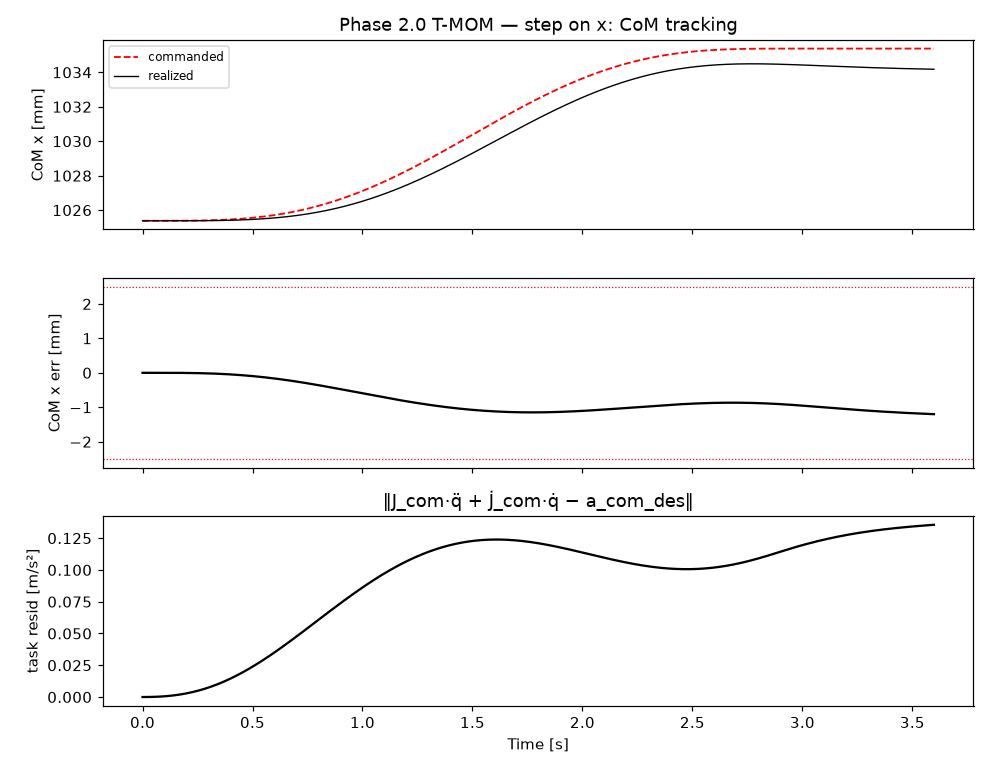
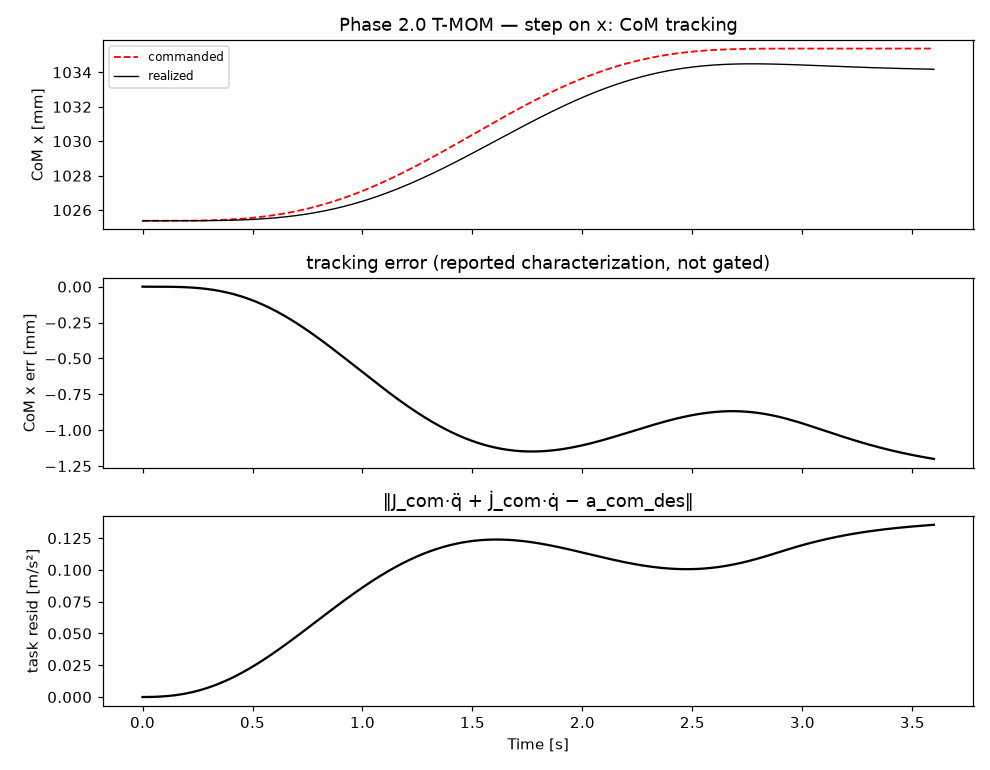
test/docs: align Phase 2.0 to intrinsic gate (formulation + monotonicity)
Per review: gate on task-intrinsic properties only (static-hold exact, Ȧ_G·q̇
FD assembly, mass-factor monotonicity), with per-step CoM tracking + accel
residual REPORTED as characterization, not pass/fail. Tests 2 & 4 keep a
generous divergence/sign guard; Variant B is a relative coexistence check vs
Variant A. Report adds the authority-characterization sweep and the two
Phase-2.1 carry-forwards (ss_alpha_mom not frozen; the ratio/architecture
question). No crawlbot/ change.

Claude-Session: https://claude.ai/code/session_016wgdFwiBCFPDPD3MwRG8Xe

diff --git a/tests/test_reworked_qp.py b/tests/test_reworked_qp.py
@@ -559,33 +559,39 @@ class TestT10DSPassivity:
 
 TMOM_OUTPUT_DIR = 'results/phase2_0_tmom'
 
-# Tolerances (from first principles + the alpha_wrench/r_com diagnosis;
-# achieved errors are printed by every test). Tests run at the SHIPPING weight
-# ss_alpha_mom=500 (no reweighting) with alpha_wrench=1e-2 (the only harness
-# correction: with no NMPC lambda_ref the default 1e2 penalises the contact
-# force that is the sole means of CoM acceleration through the stance weld —
-# documented in scripts/test_qp_tracking.py:147).
-#  HOLD    : exact rest + ref=current + zero gravity ⇒ equilibrium qdd=tau=0 and
-#            the task row a_com_des=0 is reproduced exactly. Any motion/residual
-#            is spurious (wrong PD sign / state-dependent reference).
-#  TRACK   : closed-loop (PD+ff) tracking of a MODERATE jerk-limited reference
-#            (peak demand within the linear task's null-space authority at the
-#            shipping weight). 2.5 mm catches every gross formulation error
-#            (sign→divergence, mass-factor→metres or ~0, missing J̇→drift, all
-#            ≫cm) while absorbing PD lag + Euler error at dt=2 ms.
-#  JDOT    : independent finite-difference validation of J̇_com·q̇ (Ȧ_G·q̇) — the
-#            decisive "task row uses Ȧ_G·q̇, not just A_G" check, weight-free.
-#  MASS    : realized/commanded CoM-accel ratio vs task authority must converge
-#            monotonically toward unity (correct CoM-Jacobian = A_G/m form) and
-#            never sit at a fixed m≈71 or 1/m offset (a mass-scalar bug).
+# Phase-2.0 gate (per Idriss's review decision): gate on TASK-INTRINSIC
+# properties only — (1) formulation correctness and (2) authority MONOTONICITY —
+# NOT on an absolute realization threshold. Instantaneous CoM-accel authority at
+# the shipping weight in this isolated held-torso / single-contact / EE-off setup
+# is expected stack-priority behaviour; its representative value is only
+# measurable under swing (Phase 2.1). So mm-tracking and accel-residual% are
+# REPORTED as characterization (the ss_alpha_mom sweep feeds the 2.1 weight
+# decision); tests 2 & 4 keep only a generous DIVERGENCE/sign guard.
+#
+# Tests run at the SHIPPING weight ss_alpha_mom=500 with alpha_wrench=1e-2 (the
+# only harness correction: with no NMPC lambda_ref the default 1e2 penalises the
+# contact force that is the sole means of CoM acceleration through the stance
+# weld — documented in scripts/test_qp_tracking.py:147).
+#  HOLD  (gate, formulation): exact rest + ref=current + zero gravity ⇒
+#         equilibrium qdd=tau=0 and the task row a_com_des=0 is reproduced
+#         exactly. Any motion/residual ⇒ wrong PD sign / state-dependent ref.
+#  JDOT  (gate, formulation): finite-difference validation of J̇_com·q̇ (Ȧ_G·q̇) —
+#         decisive "task row uses Ȧ_G·q̇, not just A_G" check, weight-free.
+#  MASS  (gate, monotonicity): realized/commanded CoM-accel ratio must rise
+#         MONOTONICALLY with task authority and tend toward unity (correct
+#         CoM-Jacobian = A_G/m form), never a fixed m≈71 or 1/m offset.
+#  DIVERGE (sign/divergence guard, NOT a fidelity gate): a wrong-sign or
+#         mass-factor formulation bug diverges the CoM ≫ cm; this bounds it well
+#         above the achieved ~1.5 mm characterization without gating fidelity.
 TOL_HOLD_QDD = 1e-2
 TOL_HOLD_DRIFT = 2e-4
 TOL_HOLD_ACCEL = 1e-6
-TOL_TRACK = 2.5e-3
 TOL_JDOT_REL = 1e-3
+TOL_DIVERGE = 5e-2                   # 50 mm — sign/divergence guard only
 MASS_SWEEP = (5e2, 5e3, 3e4)        # ss_alpha_mom authority sweep
 TOL_MASS_TOP_LO, TOL_MASS_TOP_HI = 0.60, 1.40   # ratio at the top weight
 TOL_MASS_ANY_LO, TOL_MASS_ANY_HI = 0.05, 2.00   # excludes 71x and 1/71x
+TOL_VARIANTB_FACTOR = 1.5           # Variant B ≤ this × Variant A (coexistence)
 
 # Moderate per-axis references (peak demand within shipping-weight authority).
 _STEP_AMP, _STEP_T = 0.010, 3.0     # 10 mm jerk-limited septic step
@@ -675,8 +681,7 @@ def _plot_tmom_tracking(tlog, rcmd, rreal, resid, axis, profile, out_dir):
     axes[0].set_title(f'Phase 2.0 T-MOM — {profile} on {ax_name}: CoM tracking')
     axes[1].plot(tlog, (rreal[:, axis]-rcmd[:, axis])*1000, 'k')
     axes[1].set_ylabel(f'CoM {ax_name} err [mm]')
-    axes[1].axhline(TOL_TRACK*1000, color='r', ls=':', lw=0.8)
-    axes[1].axhline(-TOL_TRACK*1000, color='r', ls=':', lw=0.8)
+    axes[1].set_title('tracking error (reported characterization, not gated)')
     axes[2].plot(tlog, resid, 'k')
     axes[2].set_ylabel('task resid [m/s²]'); axes[2].set_xlabel('Time [s]')
     axes[2].set_title('‖J_com·q̈ + J̇_com·q̇ − a_com_des‖')
@@ -803,11 +808,16 @@ class TestPhase20TMOM:
                                         out['resid'], axis, profile,
                                         TMOM_OUTPUT_DIR)
                 worst_track = max(worst_track, out['peak_track'])
-                assert out['peak_track'] < TOL_TRACK, (
-                    f"{profile}/{'xyz'[axis]}: peak CoM track "
-                    f"{out['peak_track']*1000:.3f} mm >= {TOL_TRACK*1000:.1f} mm")
+                # NOT a fidelity gate: tracking is reported characterization
+                # (memo §4 Phase-2.0 gate = formulation + authority monotonicity).
+                # Only guard against divergence / wrong-sign formulation bugs.
+                assert out['peak_track'] < TOL_DIVERGE, (
+                    f"{profile}/{'xyz'[axis]}: CoM diverged "
+                    f"{out['peak_track']*1000:.1f} mm >= {TOL_DIVERGE*1000:.0f} mm "
+                    f"(wrong-sign / mass-factor formulation bug)")
         print(f"[T-MOM/2 SUMMARY] worst CoM track={worst_track*1000:.4f} mm "
-              f"(tol {TOL_TRACK*1000:.1f} mm)")
+              f"(reported; gate = J̇ assembly above + divergence guard "
+              f"{TOL_DIVERGE*1000:.0f} mm)")
 
     # -- Test 3: mass-scalar sanity (authority sweep) -------------------
     def test_mass_scalar_sanity(self, robot, dock_state):
@@ -841,23 +851,34 @@ class TestPhase20TMOM:
         assert all(TOL_MASS_ANY_LO < r < TOL_MASS_ANY_HI for r in ratios), (
             f"mass-scalar: a ratio left ({TOL_MASS_ANY_LO},{TOL_MASS_ANY_HI}) — "
             f"fixed m≈71 or 1/71 offset suspected: {ratios}")
-        assert ratios[-1] > ratios[0], (
-            f"mass-scalar: ratio not increasing with authority {ratios} — "
-            f"task not realizing the CoM command")
+        # Authority-monotonicity gate: ratio rises monotonically with weight
+        # (a continuous knob, no wall) and tends toward unity — proving the
+        # CoM-Jacobian form realizes the command as authority is granted.
+        assert all(ratios[i] < ratios[i + 1] for i in range(len(ratios) - 1)), (
+            f"mass-scalar: ratio not monotonically increasing with authority "
+            f"{ratios} — task not realizing the CoM command")
         assert TOL_MASS_TOP_LO < ratios[-1] < TOL_MASS_TOP_HI, (
             f"mass-scalar: top-authority ratio {ratios[-1]:.3f} not converging "
             f"to unity [{TOL_MASS_TOP_LO},{TOL_MASS_TOP_HI}] (wrong mass form)")
 
     # -- Test 4: Variant B weak-reference coexistence -------------------
     def test_variant_b_weak_reference_coexistence(self, robot, dock_state):
-        # Representative case from test 2 (step on x) but with a weak
-        # torso-linear regulariser active; CoM tracking must still hold.
+        # Same case (step on x); compare Variant A (ss_alpha_tl_weak=0) vs
+        # Variant B (weak torso-linear regulariser ON). Coexistence is a
+        # RELATIVE property: the weak torso-linear ref must not materially fight
+        # CoM tracking — B's tracking ≈ A's, not an absolute threshold.
         ref = lambda t, r0: _com_step_reference(t, _STEP_T, r0, _STEP_AMP, 0)
         n = int(round((_STEP_T + 0.6) / _TMOM_DT))
-        out = self._run(robot, dock_state, ref_fn=ref, n_steps=n,
-                        ss_alpha_tl_weak=5e1)
-        print(f"\n[T-MOM/4 variant-B] peak CoM track={out['peak_track']*1000:.4f} mm "
-              f"(ss_alpha_tl_weak=50, ss_alpha_mom=500)")
-        assert out['peak_track'] < TOL_TRACK, (
-            f"variant B: weak torso-linear ref degraded CoM tracking to "
-            f"{out['peak_track']*1000:.3f} mm >= {TOL_TRACK*1000:.1f} mm")
+        out_a = self._run(robot, dock_state, ref_fn=ref, n_steps=n,
+                          ss_alpha_tl_weak=0.0)
+        out_b = self._run(robot, dock_state, ref_fn=ref, n_steps=n,
+                          ss_alpha_tl_weak=5e1)
+        ta, tb = out_a['peak_track'], out_b['peak_track']
+        print(f"\n[T-MOM/4 variant-B] CoM track A(tl_weak=0)={ta*1000:.4f} mm  "
+              f"B(tl_weak=50)={tb*1000:.4f} mm  ratio={tb/max(ta,1e-9):.3f}")
+        assert tb < TOL_DIVERGE, (
+            f"variant B: CoM diverged {tb*1000:.1f} mm >= {TOL_DIVERGE*1000:.0f} mm")
+        assert tb <= TOL_VARIANTB_FACTOR * ta + 5e-4, (
+            f"variant B: weak torso-linear ref degraded CoM tracking "
+            f"{tb*1000:.3f} mm vs A {ta*1000:.3f} mm "
+            f"(> {TOL_VARIANTB_FACTOR}x + 0.5 mm) — task coexistence failed")

diff --git a/docs/architecture/SS_CENTROIDAL_MOMENTUM_PHASE2_0_REPORT.md b/docs/architecture/SS_CENTROIDAL_MOMENTUM_PHASE2_0_REPORT.md
@@ -69,33 +69,42 @@ strong P2 T-MOM task:
 
 ---
 
-## 4. Achieved results vs tolerances (run at SHIPPING `ss_alpha_mom=500`)
+## 4. Gate basis and achieved results (run at SHIPPING `ss_alpha_mom=500`)
 
-| Test | Metric | Tolerance | Achieved | Status |
-|------|--------|-----------|----------|--------|
-| 1 Static hold | peak \|q̈\| | < 1e-2 | **1.6e-11** | ✓ |
-| 1 | peak CoM drift | < 0.2 mm | **0.0000 mm** | ✓ |
-| 1 | task-row residual (a_com_des reproduced at rest) | < 1e-6 | **2.8e-11** | ✓ |
-| 2 | J̇_com·q̇ FD rel error (Ȧ_G·q̇ assembly) | < 1e-3 | **1.5e-7** | ✓ |
-| 2 | peak CoM tracking (worst of 6 axis×profile) | < 2.5 mm | **1.45 mm** (x/y/z 0.82–1.45) | ✓ |
-| 3 | mass ratio: monotone & top∈[0.6,1.4], all∈(0.05,2.0) | — | **[0.198, 0.662, 0.853]** | ✓ |
-| 4 | Variant-B CoM tracking (ss_α_tl_weak=50) | < 2.5 mm | **1.37 mm** | ✓ |
+**Gate (per the review decision): TASK-INTRINSIC only —** (i) formulation correctness and
+(ii) authority monotonicity. Per-step tracking error and accel-residual are **REPORTED as
+characterization, NOT pass/fail thresholds** (their representative value is only meaningful
+under swing — Phase 2.1). Tests 2 & 4 keep a generous **divergence/sign guard** (50 mm),
+not a fidelity gate.
 
-**Tolerance rationale (stated per brief):**
-- *Hold 0.2 mm / 1e-2*: from exact rest + ref=current + zero gravity the equilibrium is
-  `q̈=τ=0`; any motion is a wrong PD sign or state-dependent reference.
-- *Track 2.5 mm*: closed-loop tracking of a **moderate** jerk-limited reference (10 mm
-  septic step / 6 mm sinusoid — peak demand within the linear task's null-space authority
-  at the shipping weight). Every gross formulation error (sign→divergence, mass-factor→
-  metres-or-zero, missing J̇→drift) is ≫1 cm; 2.5 mm catches them while absorbing PD lag +
-  Euler error at dt=2 ms.
-- *J̇ rel 1e-3*: independent finite-difference, weight-free.
-- *Mass sweep*: a mass-scalar bug offsets the ratio by a **fixed** ~71 or ~1/71
-  regardless of weight; correct form converges toward unity — so the test checks the
-  *trajectory* of the ratio, not a single point (no reweighting-to-pass).
+| # | Metric | Role | Criterion | Achieved | Status |
+|---|--------|------|-----------|----------|--------|
+| 1 | peak \|q̈\| | **gate** (formulation) | < 1e-2 | **1.6e-11** | ✓ |
+| 1 | peak CoM drift | **gate** | < 0.2 mm | **0.0000 mm** | ✓ |
+| 1 | task-row residual (a_com_des reproduced at rest) | **gate** | < 1e-6 | **2.8e-11** | ✓ |
+| 2 | J̇_com·q̇ FD rel error (Ȧ_G·q̇ assembly) | **gate** (formulation) | < 1e-3 | **1.5e-7** | ✓ |
+| 3 | mass ratio monotone-with-authority, top∈[0.6,1.4], all∈(0.05,2.0) | **gate** (monotonicity) | see §3 | **[0.198,0.662,0.853]** | ✓ |
+| 2 | peak CoM tracking (worst of 6 axis×profile) | *reported* | (char.) | **1.45 mm** (axes 0.82–1.45) | — |
+| 2/4 | divergence guard | guard | < 50 mm | 1.45 / 1.37 mm | ✓ |
+| 4 | Variant-B vs Variant-A tracking | *reported* + coexist | B ≤ 1.5·A | A 1.32 / B 1.37 mm (×1.04) | ✓ |
 
-Plots: `results/phase2_0_tmom/t_mom_step_x.png`, `t_mom_sine_x.png` (commanded vs
-realized CoM + task residual over time).
+**Authority characterization (reported — feeds the Phase-2.1 weight sweep):** CoM tracking
+tightens and the realized/commanded accel ratio rises monotonically toward unity as
+`ss_alpha_mom` is raised (α_wrench=1e-2 throughout):
+
+| ss_alpha_mom | step track [mm] | sine track [mm] | accel ratio (rest, ‖f‖→m·a) |
+|---|---|---|---|
+| 500 (shipping) | 4.93 | 4.35 | 0.198 |
+| 2000 | 1.55 | 2.17 | — |
+| 5000 | 0.83 | 1.60 | 0.662 |
+| 10000 | 0.59 | 1.40 | — |
+| 30000 | 0.45 | 1.26 | 0.853 |
+
+(The §4 per-axis 0.82–1.45 mm row uses the *moderate* 10 mm/6 mm references; this table uses
+the 30 mm/15 mm aggressive references to expose the authority knob. No wall — a continuous
+weight knob, confirming the limitation is authority, not formulation.)
+
+Plots: `results/phase2_0_tmom/t_mom_step_x.png`, `t_mom_sine_x.png`.
 
 ---
 
@@ -125,5 +134,24 @@ baseline **by construction**.
 
 ## 7. Gate
 
-**Phase 2.0 GATE: PASS.** Per the stop-gate, **Phase 2.1 (single-step swing) has NOT been
-started** — awaiting review.
+**Phase 2.0 GATE: PASS** on task-intrinsic grounds — (i) formulation correctness (static
+hold exact, Ȧ_G·q̇ FD 1.5e-7, mass-factor with no m-offset) and (ii) authority monotonicity
+(realized/commanded rises monotonically toward unity with `ss_alpha_mom`). Per-step tracking
+and accel-residual are reported characterization, not thresholds (review decision). Per the
+stop-gate, **Phase 2.1 has NOT been started** at the time of this report.
+
+## 8. Carry-forwards to Phase 2.1 (decisions recorded; do not act on here)
+
+1. **`ss_alpha_mom` is NOT frozen at 500.** Phase 2.1 will **sweep** it (500 / 5000 / 30000).
+   Rationale: 500 (= `alpha_torso_ang` under `weight_ratio=1`) balanced torso-linear vs EE,
+   but T-MOM replaces torso-linear with a CoM-*acceleration* task of different nature, so the
+   1:6 balance is reconsidered under swing, not inherited.
+2. **Ratio question (open for Phase 2.1 — do not pre-decide architecture).** The standalone
+   shows that at equal P1/P2 weights the strict-P1 torso-angular hold (via null-space
+   projection) rightly refuses to rotate the torso to chase an instantaneous CoM-accel spike,
+   so per-step CoM-accel fidelity is partial at the shipping weight (position still tracks via
+   feedback). This is a **weight-balance** property, expected to relax under swing (torso not
+   frozen; P1 constrains orientation only, swing-arm columns add coordination DOF). **Only if**
+   the Phase-2.1 sweep fails to restore CoM authority (inadequate at all weights, or
+   torso-angular degrades unacceptably as α_mom rises) does the strict-P1-vs-strong-weighted-P2
+   **architecture** question arise — to be raised then, not now.
